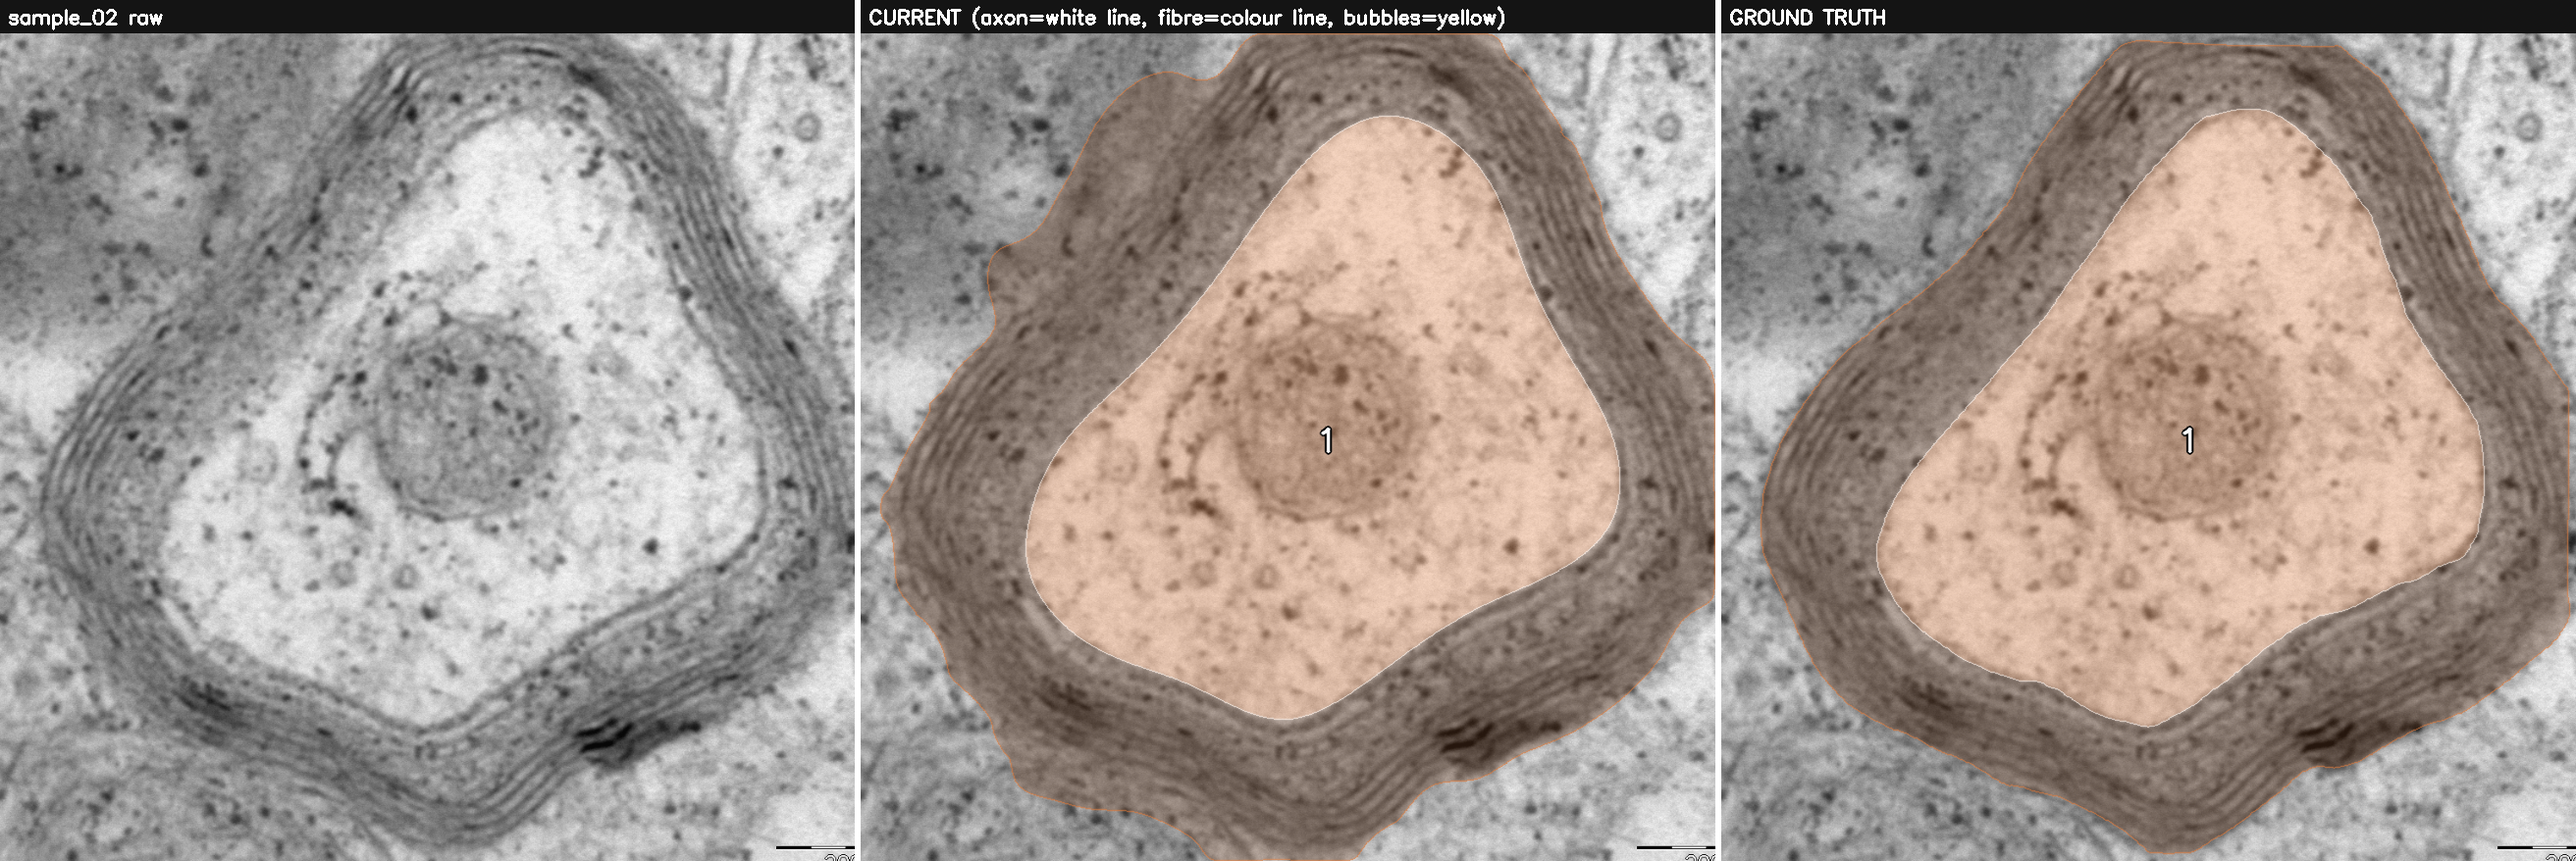
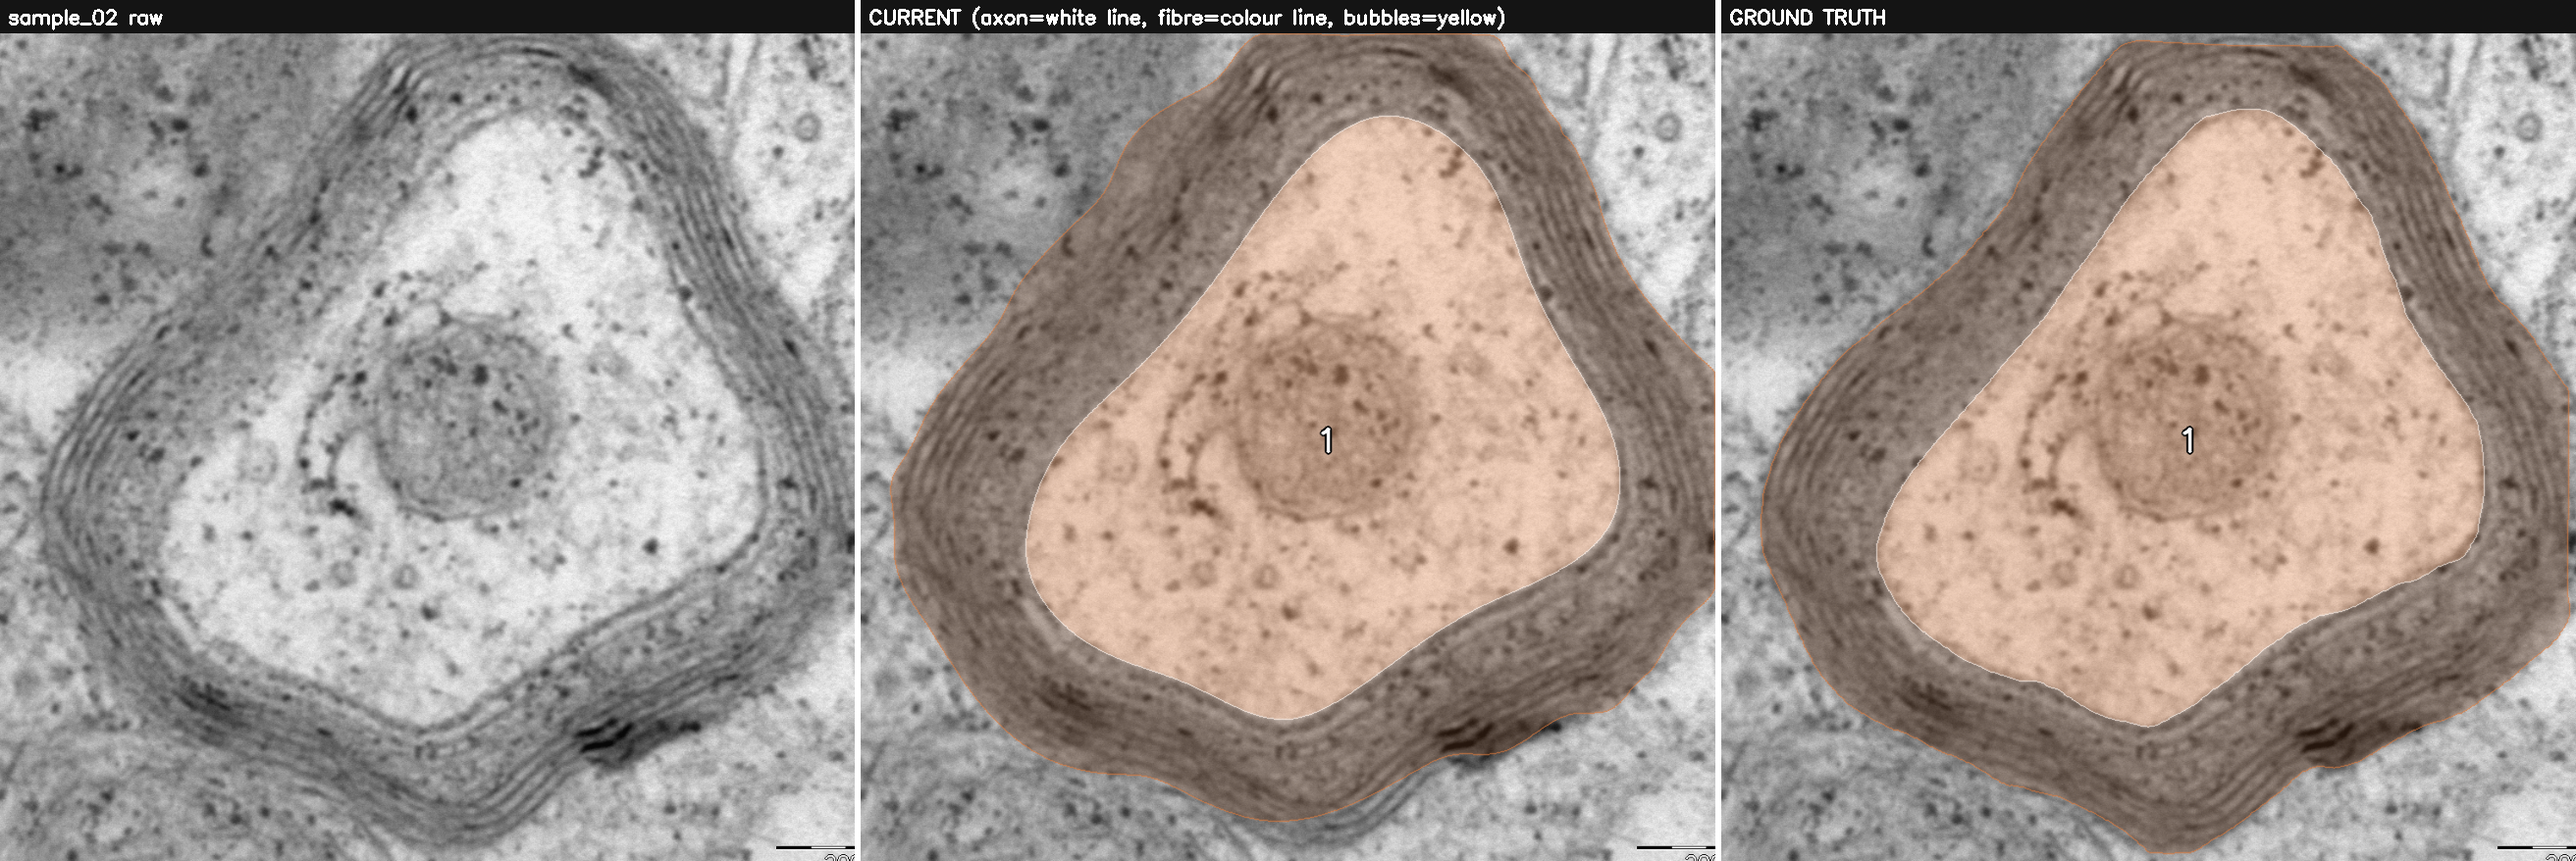
Tighter cap for isolated axons; fixes sample_02 over-reach (R22)
sample_02 is a lone axon and 88% of its myelin error was outer-side over-reach
(52k px) into dark adjacent tissue that connects to its myelin. Verified that
NO local feature separates that over-reach from true myelin: brightness,
structure-tensor coherence, fine-scale texture (range/std/high-freq/gradient),
and a radial lamellar-organization score all overlap on sample_02 AND flip sign
on sample_01 (whose over-reach is adjacent real myelin). Local appearance is a
dead end.

The reliable distinction is structural, per-axon: an isolated axon's myelin faces
open extracellular space with no neighbour to bound it, while clustered axons'
thick myelin is bounded by neighbours. An axon whose nearest neighbour is more
than isolation_ratio=8 of its own measured myelin thicknesses away uses a tighter
cap (myelin_thickness_mult_isolated=1.8) vs the clustered default (2.5). The test
is scale-free (ratio to the axon's own thickness) and cleanly separable here
(clustered axons at neighbour-ratio <= 6, sample_02 at inf).

Result (full evaluator, recall 1.00/1.00, 38 tests pass):
  sample_02 myelin 0.787 -> 0.837, fiber 0.898 -> 0.930
  sample_01/03 unchanged (stay clustered)
  MEAN myelin 0.795 -> 0.812, fiber 0.927 -> 0.937

Rejected (kept in notes): per-PIXEL open-vs-corridor cap -- sample_01's open-
facing myelin is itself thick, so a tight open-side cap starved it; the decision
must be per-axon. Also rejected: angular thickness-outlier trim (lobes aren't a
[…]

diff --git a/gratio/pipeline.py b/gratio/pipeline.py
@@ -86,6 +86,13 @@ DEFAULTS = dict(
                               # residual assumption is intra-fibre: the outer boundary is within a
                               # few ring-thicknesses of the axon (a wedge ballooning many-fold is a
                               # neighbour bleeding in, not this fibre's myelin).
+    myelin_thickness_mult_isolated=1.8,  # tighter cap for an ISOLATED axon (see isolation_ratio):
+                              # its myelin faces open extracellular space on all sides, where dark
+                              # adjacent tissue looks like myelin and no neighbouring axon bounds it,
+                              # so the band must not run past the axon's own uniform ring thickness.
+    isolation_ratio=8.0,      # an axon is 'isolated' if its nearest neighbouring axon is more than
+                              # this many of its OWN myelin thicknesses away (scale-free). Below this
+                              # the axon is treated as clustered and keeps myelin_thickness_mult.
     myelin_band=None,         # optional ABSOLUTE ceiling as a fraction of axon radius; None = off.
                               # Only useful to hard-limit a dataset where the measured-thickness cap
                               # is not enough (e.g. inverted-contrast SEM tuning in reference_run.py).
@@ -397,7 +404,21 @@ def segment(gray: np.ndarray, **overrides) -> dict:
         r_by[a['id']] = a['r']
         d = dist[uncapped & (nearest == a['id'])]
         thick = float(np.median(d)) if d.size else 0.0
-        cap_by[a['id']] = P['myelin_thickness_mult'] * thick
+        # An axon whose nearest neighbour is many myelin-thicknesses away is ISOLATED:
+        # its myelin faces open extracellular space, where dark adjacent tissue can be
+        # taken for myelin with no neighbouring axon to arbitrate the boundary. Such an
+        # axon uses a tighter cap. A clustered axon keeps the generous cap for its
+        # genuinely thick shared walls (which the neighbour, not the cap, bounds). The
+        # isolation test is scale-free -- a ratio of the neighbour distance to this
+        # axon's own measured thickness, not a pixel threshold.
+        if len(cands) > 1 and thick > 0:
+            dt_other = distance_transform_edt(axon_lbl != a['id'])
+            dmin = float(dt_other[(axon_lbl > 0) & (axon_lbl != a['id'])].min())
+            isolated = dmin > P['isolation_ratio'] * thick
+        else:
+            isolated = len(cands) == 1
+        mult = P['myelin_thickness_mult_isolated'] if isolated else P['myelin_thickness_mult']
+        cap_by[a['id']] = mult * thick
     band_cap = cap_by[nearest]
     if P.get('myelin_band'):                     # optional absolute ceiling (usually off)
         band_cap = np.minimum(band_cap, P['myelin_band'] * r_by[nearest])

diff --git a/docs/reference/user_masks.md b/docs/reference/user_masks.md
@@ -126,9 +126,9 @@ no false positives**, then maximise class overlap.
 | sample     | axon IoU | myelin IoU | fibre IoU | detect P / R |
 |------------|---------:|-----------:|----------:|:------------:|
 | sample_01  | 0.92 | 0.82 | 0.95 | 1.00 / 1.00 |
-| sample_02  | 0.96 | 0.79 | 0.90 | 1.00 / 1.00 |
+| sample_02  | 0.96 | 0.84 | 0.93 | 1.00 / 1.00 |
 | sample_03  | 0.92 | 0.78 | 0.93 | 1.00 / 1.00 |
-| **mean**   | **0.94** | **0.80** | **0.93** | **1.00 / 1.00** |
+| **mean**   | **0.94** | **0.81** | **0.94** | **1.00 / 1.00** |
 
 (baseline before tuning was axon 0.74 / myelin 0.51 / fibre 0.80, recall 0.80.)
 
@@ -245,10 +245,32 @@ read the g-ratio high; sample_02 g fell 0.81 → 0.73, close to the hand-traced
    cluster (sample_03 myelin −0.03) but is a clear net gain and attacks the true
    ceiling rather than the cap.
 
+8. *Isolated axons over-reach into open extracellular space* (R22). sample_02 is
+   a lone axon; 88 % of its myelin error was outer-side over-reach (52 k px) into
+   dark adjacent tissue that connects to its myelin and is *texturally identical*
+   to it — brightness, structure-tensor coherence, fine-scale texture, and even a
+   radial-lamellar-organization score all fail to separate the two (verified
+   pixel-wise; the same features flip sign on sample_01, whose over-reach is
+   adjacent *real* myelin). So local appearance cannot cut it. What separates the
+   two samples is structural, not local: sample_02's myelin faces open space on
+   all sides with no neighbouring axon to bound it, whereas sample_01/03 are
+   touching clusters whose thick myelin is genuinely bounded by neighbours. Fix:
+   an axon whose nearest neighbour is more than `isolation_ratio`=8 of its own
+   measured myelin thicknesses away is treated as **isolated** and uses a tighter
+   cap (`myelin_thickness_mult_isolated`=1.8) instead of the clustered default
+   (2.5); the test is scale-free (a ratio to the axon's own thickness). Isolation
+   is cleanly separable on this data (clustered axons sit at neighbour-ratio ≤ 6,
+   sample_02 at ∞). Gain: sample_02 myelin 0.79 → 0.84, fibre 0.90 → 0.93;
+   sample_01/03 unchanged (they stay clustered). A per-*pixel* open-vs-corridor
+   variant was tried and rejected: sample_01's open-facing myelin is itself thick,
+   so a tight open-side cap starved it — the decision must be per-axon, not
+   per-pixel.
+
 The relevant `segment` defaults are now `myelin_percentile=28`,
-`myelin_fill_percentile=42`, `myelin_thickness_mult=2.5`, `min_axon_frac=0.02`,
+`myelin_fill_percentile=42`, `myelin_thickness_mult=2.5`,
+`myelin_thickness_mult_isolated=1.8`, `isolation_ratio=8`, `min_axon_frac=0.02`,
 `enclose_outer_vacuoles=True`; the thresholds are calibrated against this ground
-truth but the outer-myelin cap is now scale-free and prior-free.
+truth but the outer-myelin cap is scale-free and prior-free.
 
 **Known residual limits:**
 - An isolated fibre's outer bound rests on the measured-thickness cap, not on an

diff --git a/docs/reference/continuation.md b/docs/reference/continuation.md
@@ -10,8 +10,8 @@ Current agreement (`evaluate_segmentation.py`, means over the 3 TEM samples):
 | metric | value |
 |--------|-------|
 | axon IoU   | 0.94 |
-| myelin IoU | 0.80 |
-| fibre IoU  | 0.93 |
+| myelin IoU | 0.81 |
+| fibre IoU  | 0.94 |
 | detection precision / recall | **1.00 / 1.00** |
 
 (Baseline before any tuning was axon 0.74 / myelin 0.51 / fibre 0.80, recall 0.80.)
